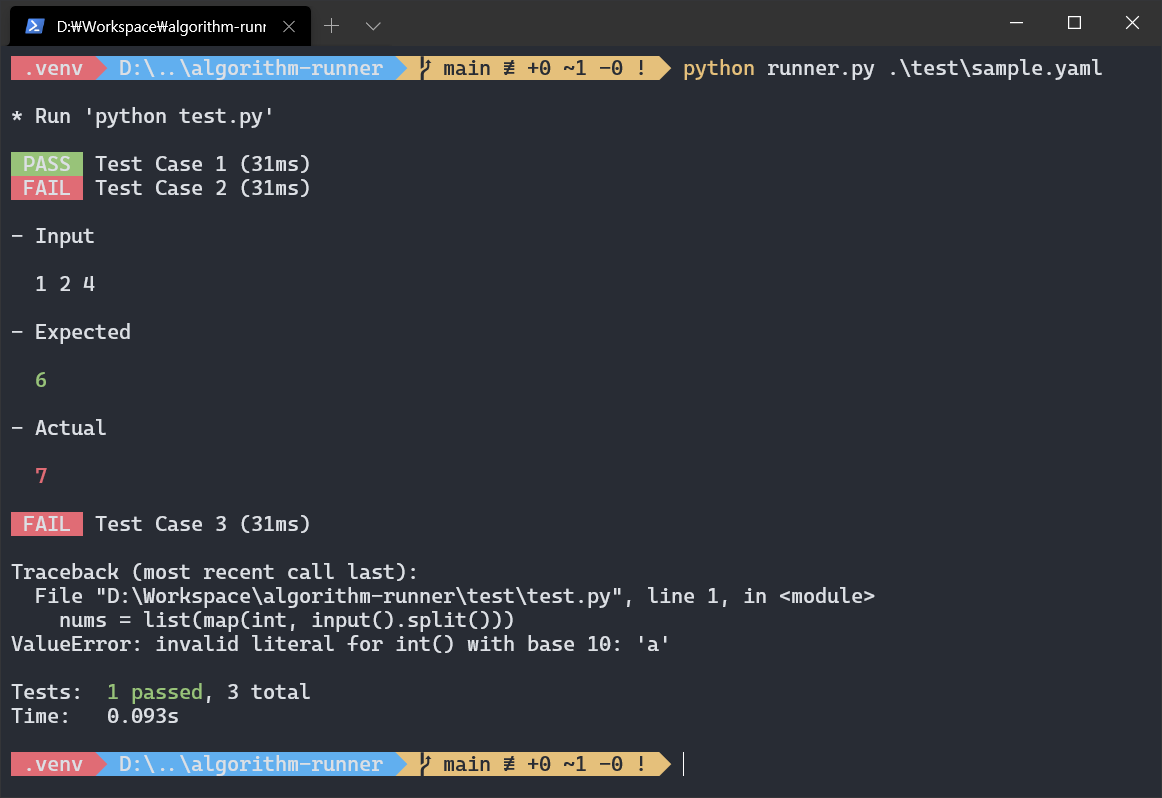
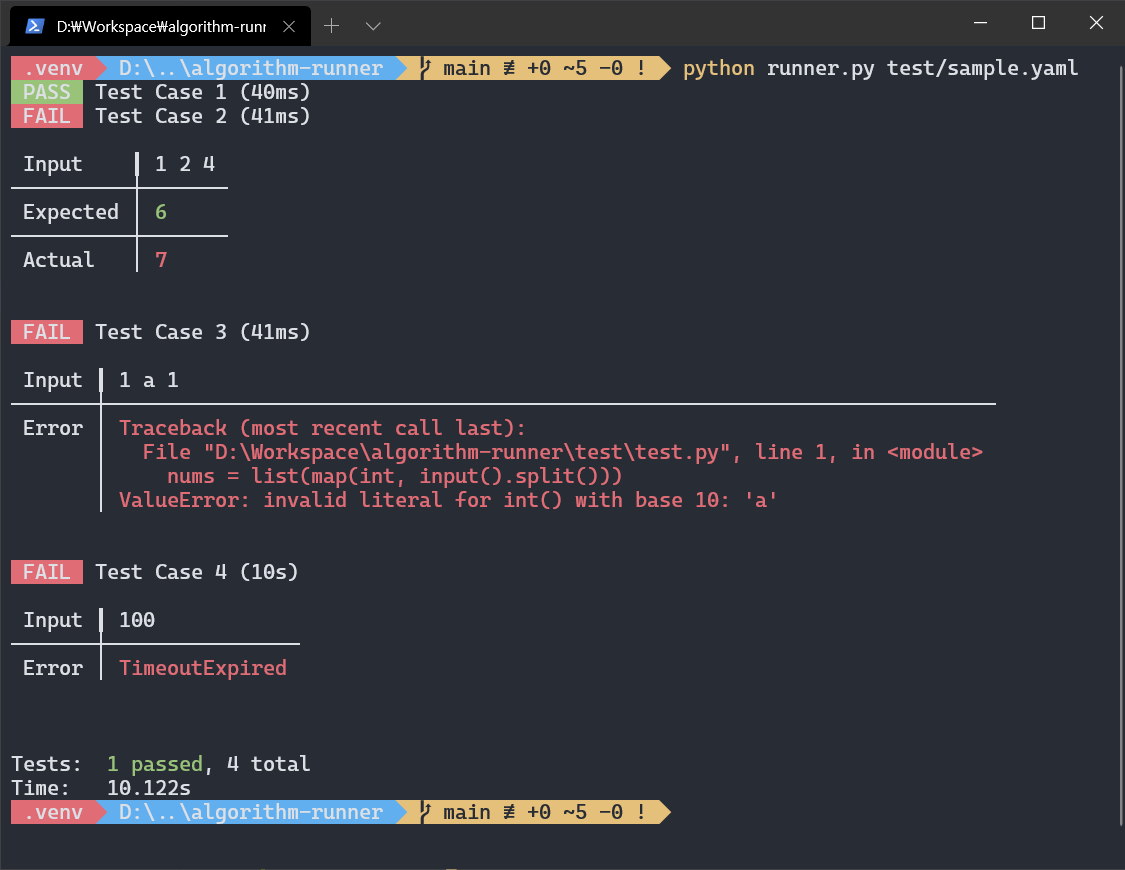
Update style and Add context option

diff --git a/runner.py b/runner.py
@@ -2,114 +2,179 @@ import argparse
 import os
 import subprocess
 import time
+from dataclasses import dataclass
 
 import yaml
-from colored import bg, fg, stylize
+from rich.console import Console
+from rich.table import Table
+from rich import traceback
+
+@dataclass
+class TestCase:
+    input: str
+    output: str
 
 
-def err(message: str):
-    print(stylize(message, fg("red")))
-    exit(-1)
+@dataclass
+class Context:
+    timeout: int = None
+    workdir: str = None
 
 
-def padded(message: str):
-    for line in message.splitlines():
-        print(f"  {line}")
+@dataclass
+class Config:
+    scripts: list[any]
+    tests: list[TestCase]
+    context: Context
 
 
-def label(tag: str, message: str, bg_color: str):
-    print(stylize(f" {tag.upper()} ", fg("white") + bg(bg_color)), end=" ")
-    print(stylize(message, fg("white")))
-
-
-def run_script(script: str, input: str):
+def run_script(context: Context, script: str, input: str):
     input = bytes(input, "utf-8")
     start_at = time.time()
     process = subprocess.run(
-        script, capture_output=True, input=input, cwd=cwd, timeout=timeout
+        script,
+        capture_output=True,
+        input=input,
+        cwd=context.workdir,
+        timeout=context.timeout,
     )
     end_at = time.time()
     elspased = round((end_at - start_at) * 1000)
     return process, elspased
 
 
-def launch(script: str, tests: list):
+def launch(context: Context, script: str, tests: list):
     passed = 0
     total_time = 0
 
-    print(stylize(f"\n* Run '{script}'\n", fg("white")))
+    with console.status("Run tests..."):
+        for index, test in enumerate(tests):
+            index += 1
 
-    for index, test in enumerate(tests):
-        index += 1
+            input: str = test["input"].rstrip()
+            output: str = test["output"].rstrip()
 
-        input: str = test["input"].rstrip()
-        output: str = test["output"].rstrip()
+            table = Table(show_header=False, show_edge=False, show_lines=True)
 
-        try:
-            process, elspased = run_script(script, input)
+            try:
+                process, elspased = run_script(context, script, input)
 
-            total_time += elspased
+                total_time += elspased
 
-            if process.returncode == 0:
-                actual = process.stdout.decode("utf-8").rstrip()
-                if actual == output:
-                    passed += 1
-                    label("pass", f"Test Case {index} ({elspased}ms)", "green")
+                if process.returncode == 0:
+                    actual = process.stdout.decode("utf-8").rstrip()
+                    if actual == output:
+                        passed += 1
+
+                        print_pass(f"Test Case {index} ({elspased}ms)")
+                    else:
+                        print_fail(f"Test Case {index} ({elspased}ms)\n")
+
+                        table.add_row("Input", input)
+                        table.add_row("Expected", f"[green]{output}")
+                        table.add_row("Actual", f"[red]{actual}")
+                        console.print(table, "\n")
                 else:
-                    label("fail", f"Test Case {index} ({elspased}ms)", "red")
-                    print("\n- Input\n")
-                    padded(input)
-                    print("\n- Expected\n")
-                    padded(stylize(output, fg("green")))
-                    print("\n- Actual\n")
-                    padded(stylize(actual, fg("red")))
-                    print()
-            else:
-                label("fail", f"Test Case {index} ({elspased}ms)", "red")
-                print("\n- Input\n")
-                padded(input)
-                print()
-                print(stylize(process.stderr.decode("utf-8"), fg("red")))
-        except subprocess.TimeoutExpired:
-            total_time += timeout * 1000
+                    stderr = process.stderr.decode("utf-8")
 
-            label("fail", f"Test Case {index} ({timeout}s)", "red")
-            print("\n- Input\n")
-            padded(input)
-            print(stylize("\nTimeoutExpired\n", fg("red")))
-    print(
-        "Tests:\t" + stylize(f"{passed} passed", fg("green")) + f", {len(tests)} total"
+                    print_fail(f"Test Case {index} ({elspased}ms)\n")
+
+                    table.add_row("Input", input)
+                    table.add_row("Error", f"[red]{stderr.strip()}")
+                    console.print(table, "\n")
+
+            except subprocess.TimeoutExpired:
+                total_time += context.timeout * 1000
+
+                print_fail(f"Test Case {index} ({context.timeout}s)\n")
+
+                table.add_row("Input", input)
+                table.add_row("Error", f"[red]TimeoutExpired")
+                console.print(table, "\n")
+
+        print_summary(passed, len(tests), round(total_time / 1000, 3))
+
+
+def print_pass(message: str):
+    console.print(
+        f"[on green] PASS [/on green] {message}", style="white", highlight=False
     )
-    print(f"Time:\t{round(total_time / 1000, 3)}s\n")
 
 
-parser = argparse.ArgumentParser()
-parser.add_argument("config", type=str)
-parser.add_argument("--cwd", type=str, default=None)
+def print_fail(message: str):
+    console.print(f"[on red] FAIL [/on red] {message}", style="white", highlight=False)
 
-args = parser.parse_args()
 
-cwd = args.cwd if args.cwd else os.path.dirname(os.path.abspath(args.config))
-config = yaml.load(open(args.config), Loader=yaml.FullLoader)
+def print_summary(passed: int, total: int, elspaed_time: float):
+    summary = f"\nTests:\t[green]{passed} passed[/green], {total} total\nTime:\t{elspaed_time}s"
 
-if "script" not in config:
-    err("Require 'script' variable in config")
+    console.print(summary, style="white", highlight=False)
 
-if "tests" not in config:
-    err("Require 'tests' variable in config")
 
-script = config["script"]
-tests = config["tests"]
-timeout = config["timeout"] if "timeout" in config else None
+def err(message: str):
+    console.print(f"[red]{message}[/red]")
+    exit(1)
 
-if not isinstance(tests, list):
-    err("Require 'tests' is list")
 
-if timeout and not isinstance(timeout, int):
-    err("Require 'timeout' is int")
+def load_config(path: str) -> Config:
+    config = yaml.load(open(path), Loader=yaml.FullLoader)
 
-if not isinstance(script, list):
-    script = [script]
+    scripts = (
+        config["script"]
+        if "script" in config
+        else err("Require [bold]'script'[/bold] variable in config")
+    )
 
-for s in script:
-    launch(s, tests)
+    if isinstance(scripts, str):
+        scripts = [scripts]
+
+    if not (isinstance(scripts, list) or isinstance(scripts, str)):
+        err("Require [bold]'script'[/bold] is [bold]string or list[/bold]")
+
+    tests = (
+        config["tests"]
+        if "tests" in config
+        else err("Require [bold]'tests'[/bold] variable in config")
+    )
+
+    if not isinstance(tests, list):
+        err("Require [bold]'tests'[/bold] is list")
+
+    context = Context()
+
+    if "context" in config:
+        context = config["context"]
+
+        timeout = context["timeout"] if "timeout" in context else None
+
+        if timeout and not isinstance(timeout, int):
+            err("Require [bold]'timeout'[/bold] is int")
+
+        workdir = (
+            context["workdir"]
+            if "workdir" in context
+            else os.path.dirname(os.path.abspath(path))
+        )
+
+        context = Context(timeout=timeout, workdir=workdir)
+
+    return Config(scripts=scripts, tests=tests, context=context)
+
+
+def run_config(config: Config):
+    for script in config.scripts:
+        launch(config.context, script, config.tests)
+
+
+if __name__ == "__main__":
+    traceback.install()
+
+    console = Console()
+
+    parser = argparse.ArgumentParser()
+    parser.add_argument("config", type=str)
+
+    args = parser.parse_args()
+
+    config = load_config(args.config)
+    run_config(config)

diff --git a/test/test.py b/test/test.py
@@ -1,2 +1,5 @@
 nums = list(map(int, input().split()))
+if nums[0] == 100:
+    while True:
+        pass
 print(sum(nums))

diff --git a/README.md b/README.md
@@ -10,14 +10,13 @@
 ## 사용방법
 
 ```bash
-usage: runner.py [-h] [--cwd CWD] config
+usage: runner.py [-h] config
 
 positional arguments:
   config
 
 optional arguments:
   -h, --help  show this help message and exit
-  --cwd CWD
 ```
 
 ## 설치
@@ -33,7 +32,8 @@ optional arguments:
    
     ```yaml
     script: python test.py
-    timeout: 10
+    context:
+      timeout: 10
     tests:
       - input: |
           1 2 3
@@ -49,7 +49,18 @@ optional arguments:
           2
     ```
 
-## Yaml 작성 방법
+## Yaml Schema
+
+```yaml
+script:
+  - [string]
+context:
+  timeout: [optional/integer]
+  workdir: [optional/string]
+tests:
+  - input: [string]
+    output: [string]
+```
 
 ### script
 
@@ -79,15 +90,28 @@ script:
     - node test.js
 ```
 
-### timeout
+### context
 
-Runner가 스크립트 수행 시 timeout 시간(초)
+Runner가 테스트 수행 시 사용할 옵션들을 포함
 
-이 값을 지정하면 스크립트 수행 시 해당 시간을 초과할 떄 `TimeoutExpired` 에러를 출력합니다.
+- workdir
+  
+  Runner가 스크립트를 수행할 Working Directory  
+  값이 비어있을 경우 스크립트가 위치한 폴더를 사용
 
-```yaml
-timeout: 10
-```
+  ```yaml
+  context:
+    workdir: test/
+  ```
+
+- timeout
+
+  Runner가 스크립트 수행 시 timeout 시간(초)  
+  이 값을 지정하면 스크립트 수행 시 해당 시간을 초과할 떄 `TimeoutExpired` 에러를 출력합니다.
+
+  ```yaml
+  timeout: 10
+  ```
 
 ### tests
 
